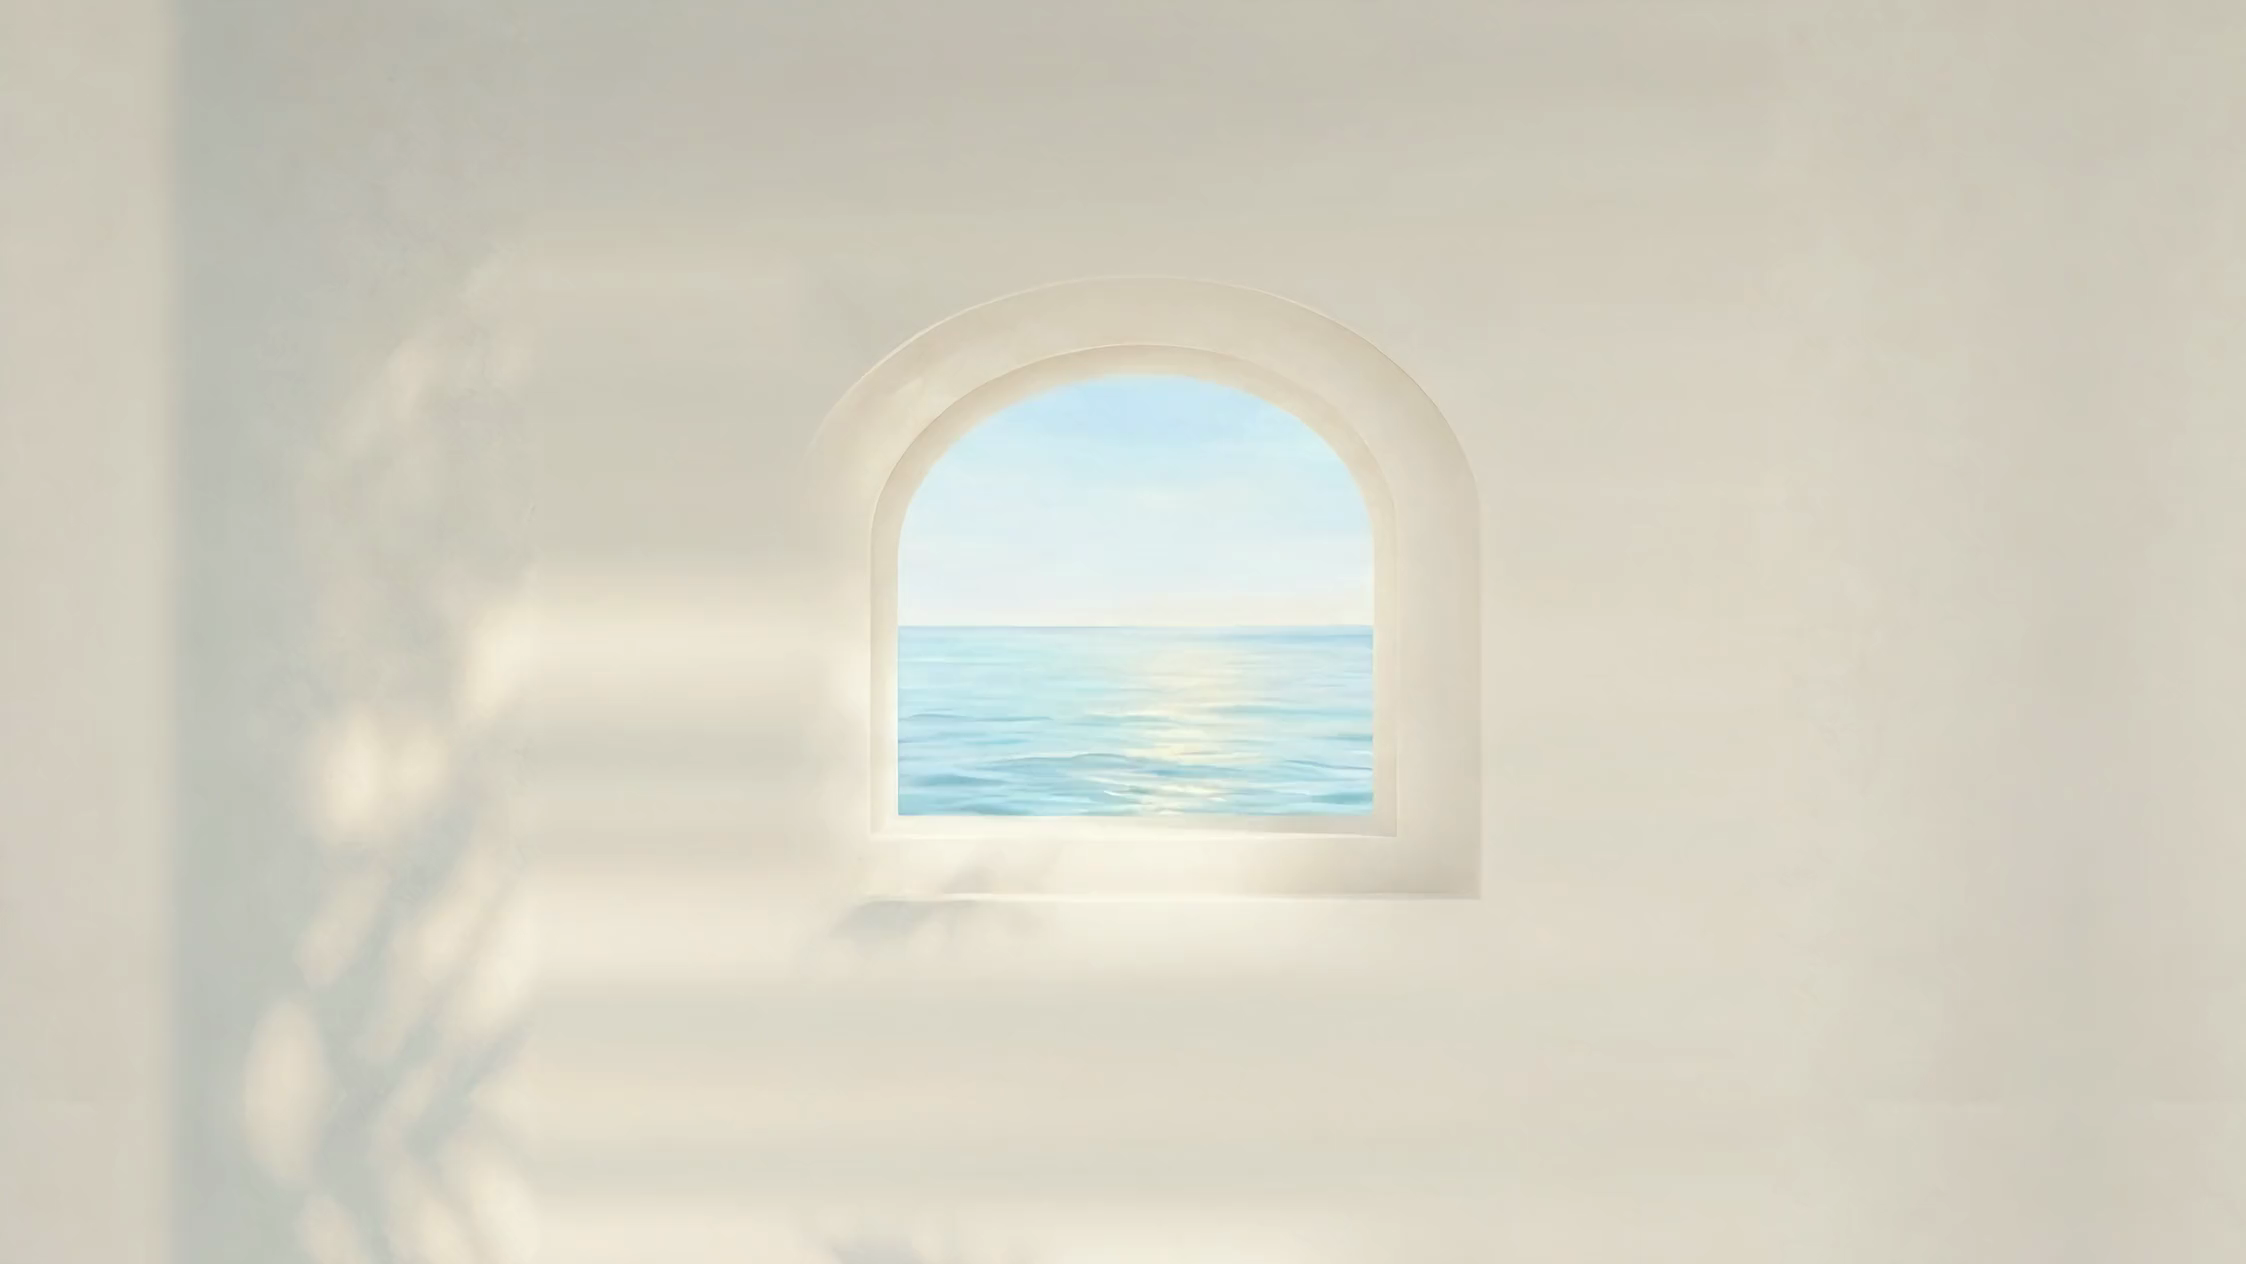
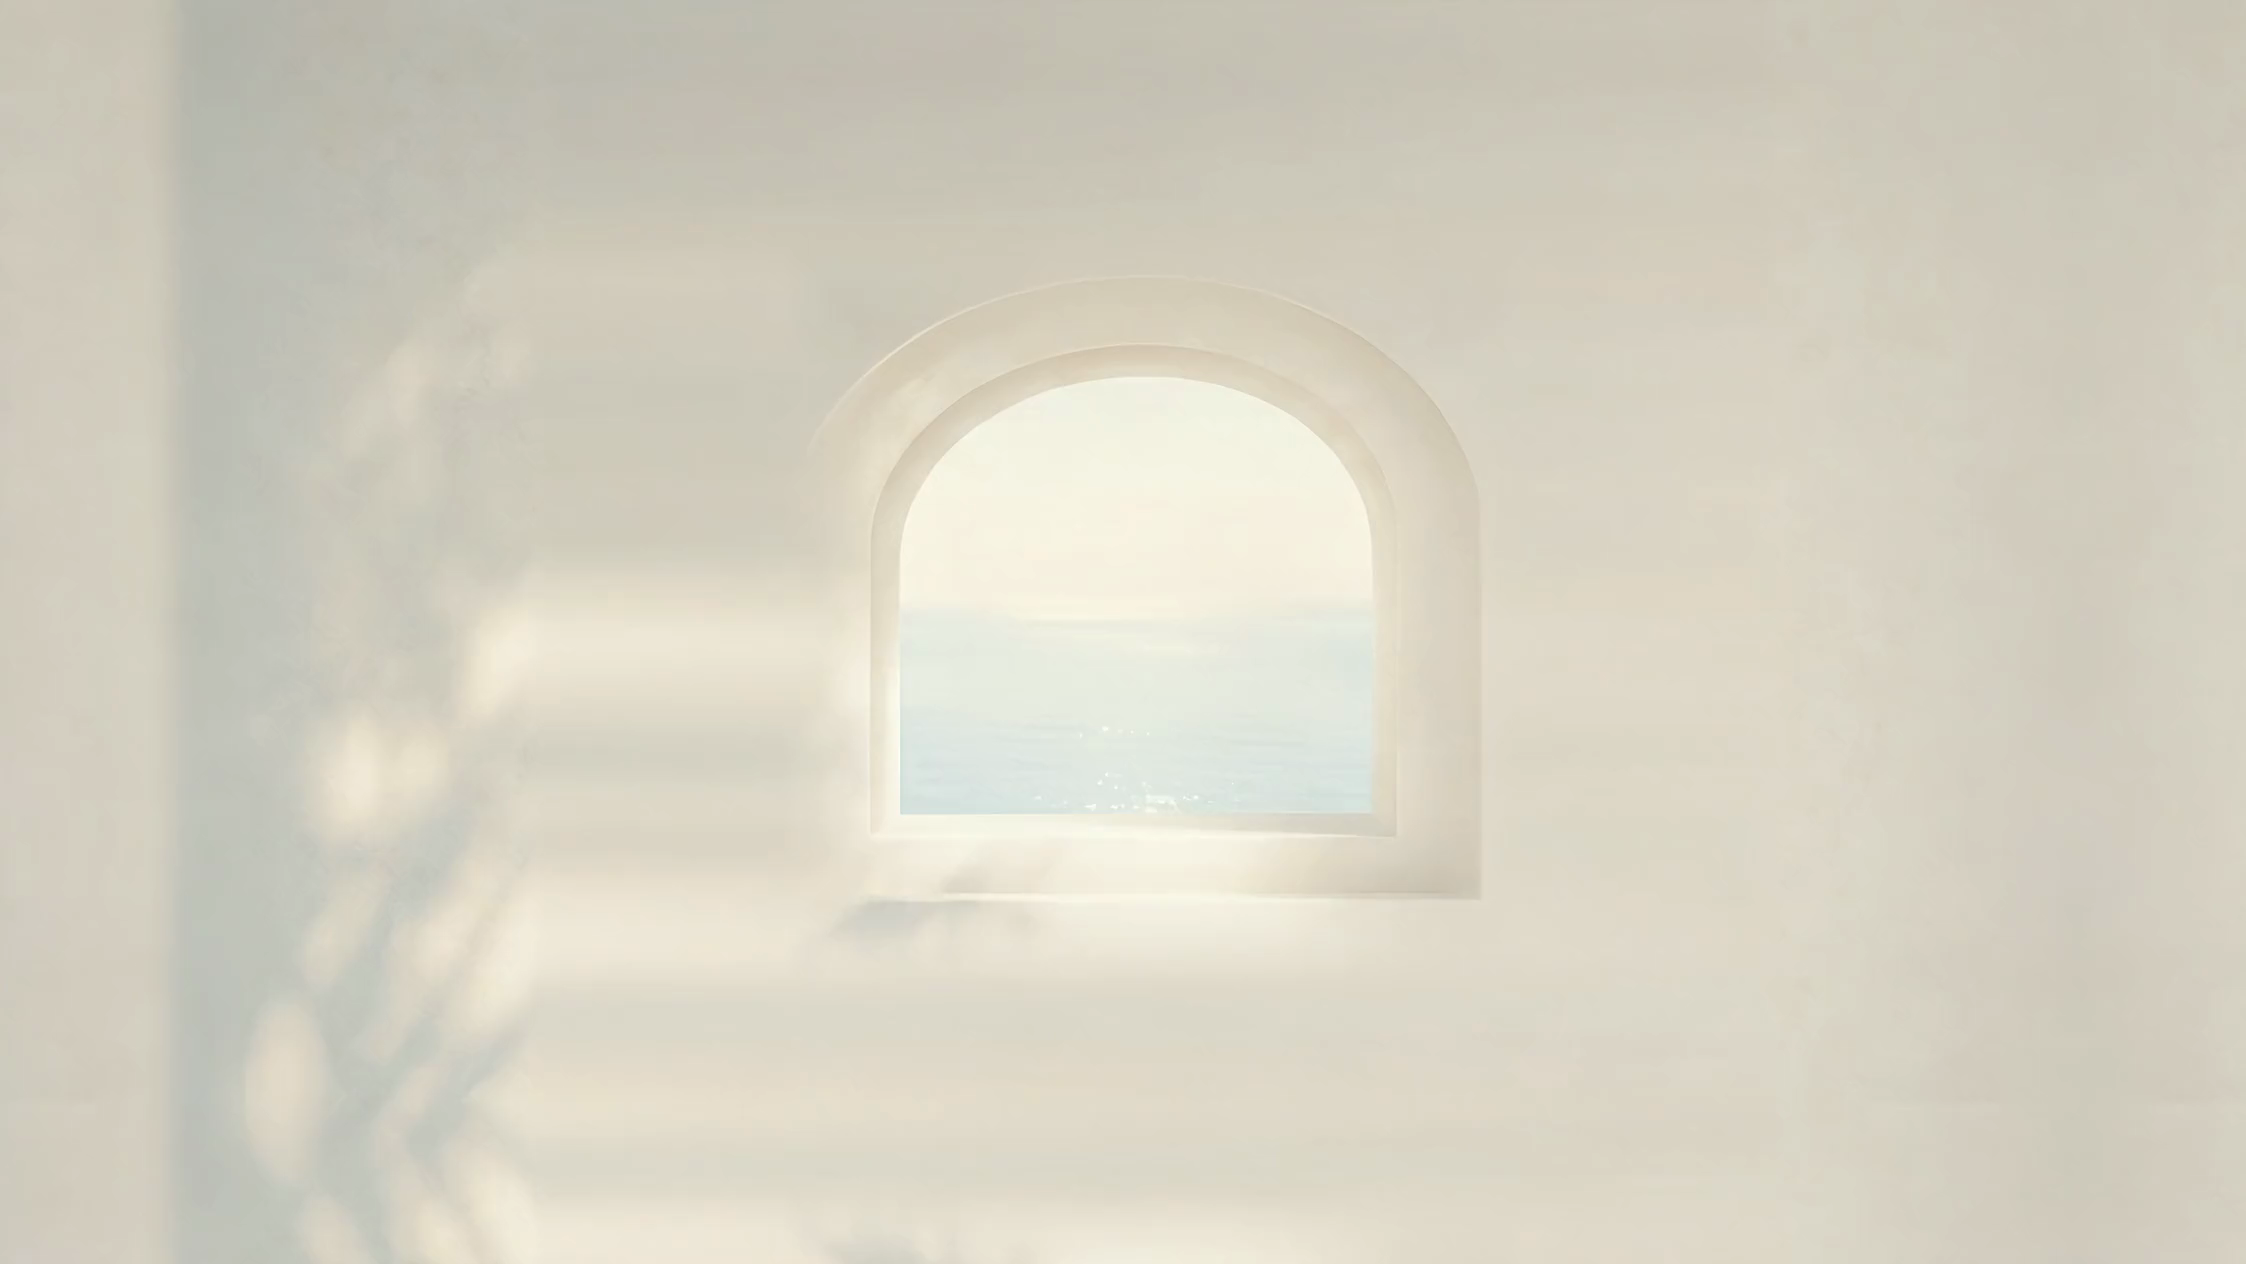
landing: the sea fades to a whisper; italic-serif wordmark restored
Two founder notes (2026-07-08):

1. 'The water needs to be much more faint… too blue, looks artificial,
   doesn't blend into the frame.' The view is regenerated as a whisper:
   very pale milky water with a breath of powder blue, dissolving into
   a cream sky, faint glisten. Same breeze character (motion heat-map
   gated). Mobile also drops the brightness(1.06) filter — it was
   compensation for the old dark Adam niche and washed the faint
   window out entirely.

2. 'Put back the alexandria and mentes aeternae fonts we had
   previously.' The signature-script exploration (Mrs Saint Delafield)
   is reverted: italic Spectral 500/32px wordmark + small-caps motto,
   same treatment on both slides.

Changed region(s): [[0.374, 0.4937, 0.6233, 0.6479], [0.4052, 0.2777, 0.6233, 0.432], [0.5298, 0.4937, 0.6233, 0.5245]]

diff --git a/app/components/LandingPage.tsx b/app/components/LandingPage.tsx
@@ -920,12 +920,15 @@ export default function LandingPage({ brandClassName = '' }: Props) {
         }
 
         .nav-brand {
-          /* Signature-script exploration — scripts run small, so sized
-             well up from the serif-era 32px. */
-          font-family: var(--font-wordmark), cursive;
-          font-style: normal;
-          font-weight: 400;
-          font-size: 52px;
+          /* Italic-serif wordmark — restored 2026-07-08 after the
+             signature-script exploration (Mrs Saint Delafield) was
+             reverted by the founder: "put back the alexandria and
+             mentes aeternae fonts we had previously." Same treatment
+             on both slides; only the colour follows the theme. */
+          font-family: var(--font-serif), ui-serif, Georgia, serif;
+          font-style: italic;
+          font-weight: 500;
+          font-size: 32px;
           line-height: 1;
           text-decoration: none;
           letter-spacing: -0.01em;
@@ -2775,12 +2778,9 @@ export default function LandingPage({ brandClassName = '' }: Props) {
                at ~59% of screen width with room to breathe. */
             background-image: url(/sea-arch-mobile.png);
             background-position: center center;
-            /* Portrait crop fills the viewport with the dark niche +
-               painting (less cream wall visible than at desktop), so
-               the scene reads as a yellow-heavy dark cream. Subtle
-               lift + desaturation pulls it back toward the desktop
-               read. Affects PNG poster and breeze video together. */
-            filter: brightness(1.06) saturate(0.92);
+            /* No filter — the brightness(1.06) lift compensated for the
+               old dark Adam niche; on the already-bright sea scene it
+               washed the faint window out entirely. */
           }
           /* Breeze video sits on top of the PNG; same mobile recentre
              so the niche stays in the visual middle. Without this the
@@ -2876,9 +2876,7 @@ export default function LandingPage({ brandClassName = '' }: Props) {
             -webkit-backdrop-filter: blur(14px) saturate(1.05);
           }
           .nav-brand {
-            /* Script hand needs more size than the old serif's 22px
-               to stay legible on a phone header. */
-            font-size: 36px;
+            font-size: 22px;
           }
           /* Mobile shows the reading group only; the places (library ·
              marketplace) live in the colophon footer line instead —

diff --git a/app/layout.tsx b/app/layout.tsx
@@ -1,5 +1,5 @@
 import type { Metadata, Viewport } from "next";
-import { EB_Garamond, Mrs_Saint_Delafield, Spectral } from "next/font/google";
+import { EB_Garamond, Spectral } from "next/font/google";
 import Script from "next/script";
 import { Analytics } from "@vercel/analytics/next";
 import "./globals.css";
@@ -19,14 +19,6 @@ const spectral = Spectral({
   subsets: ["latin"],
   weight: ["300", "400", "500", "600", "700"],
   style: ["normal", "italic"],
-});
-
-// The nav wordmark's hand, nothing else — trying the signature script
-// direction (founder exploration, 2026-07-08).
-const wordmark = Mrs_Saint_Delafield({
-  variable: "--font-wordmark",
-  subsets: ["latin"],
-  weight: "400",
 });
 
 const SITE = process.env.NEXT_PUBLIC_SITE_URL || "https://alexandria-library.com";
@@ -156,7 +148,7 @@ export default function RootLayout({
   return (
     <html lang="en" suppressHydrationWarning>
       <body
-        className={`${ebGaramond.variable} ${spectral.variable} ${wordmark.variable} antialiased`}
+        className={`${ebGaramond.variable} ${spectral.variable} antialiased`}
       >
         <ThemeProvider>
           {children}